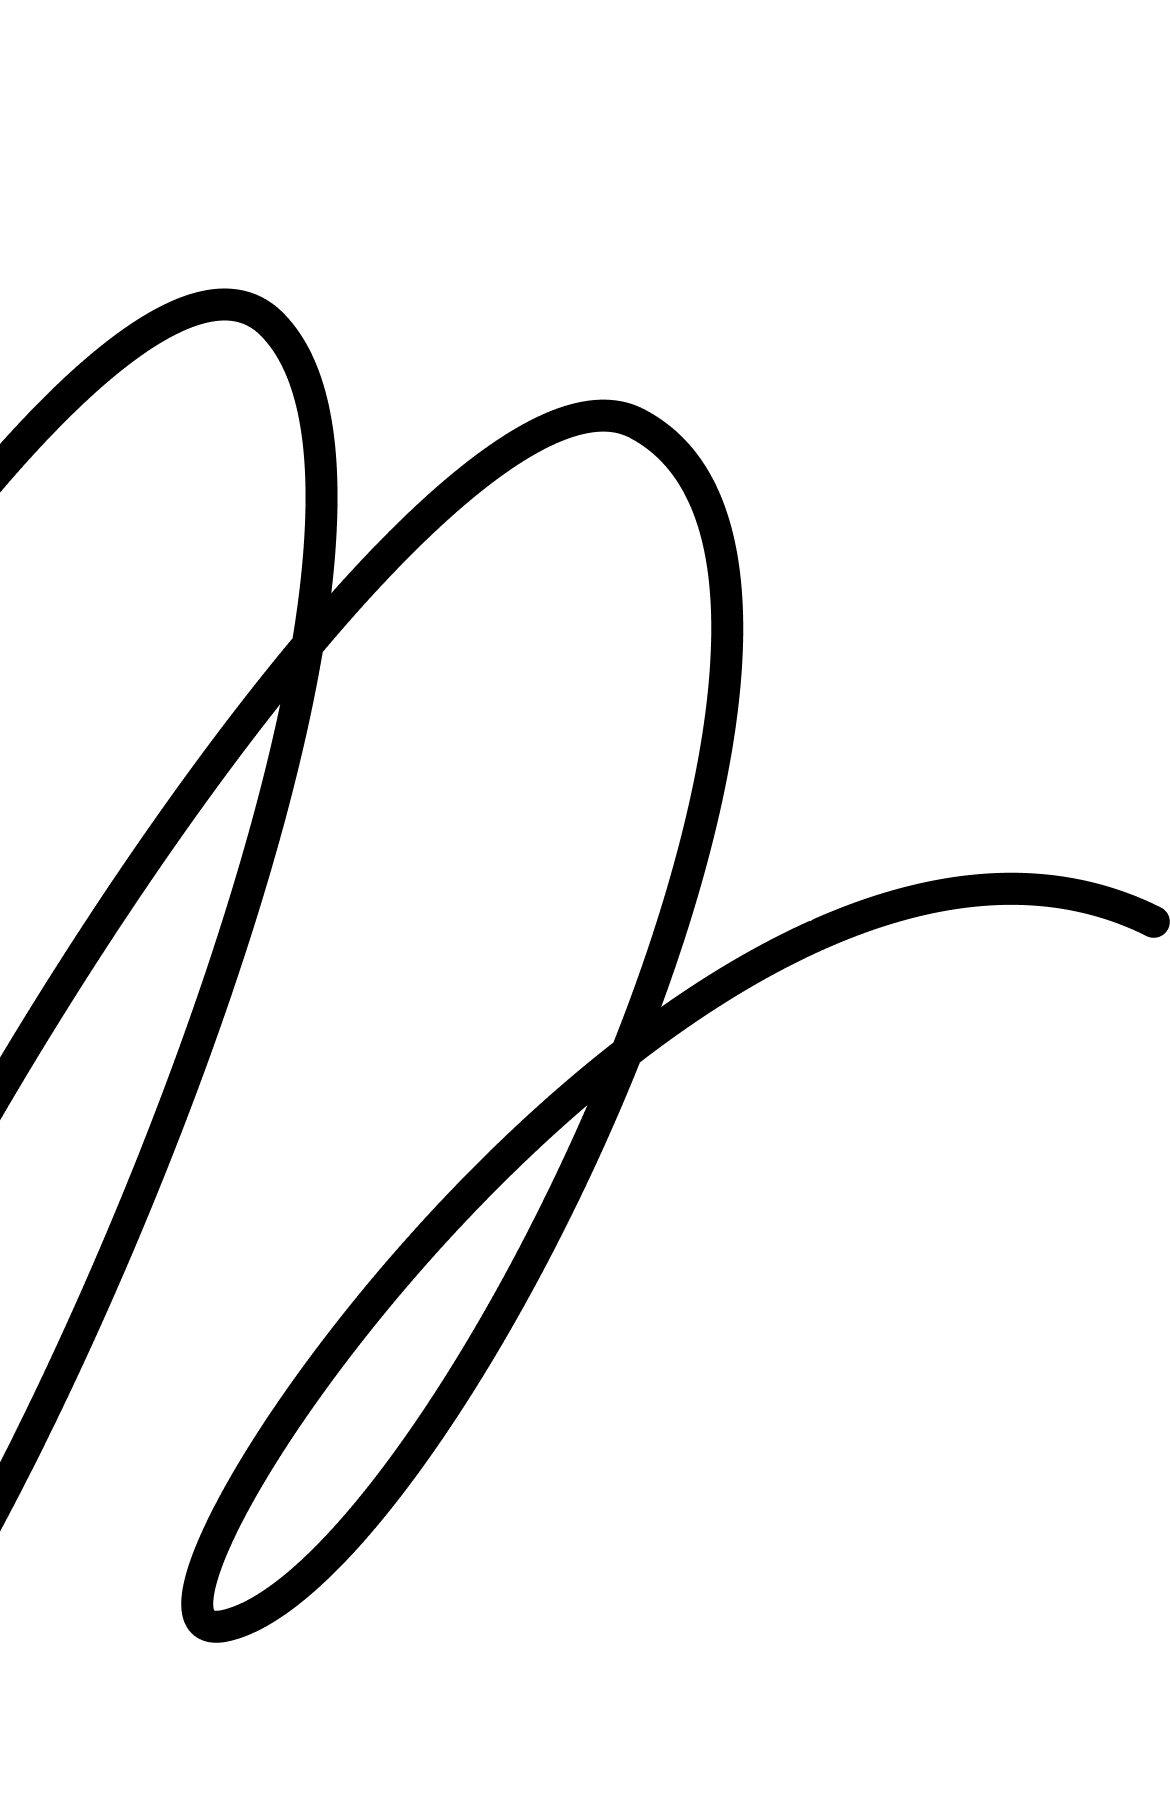
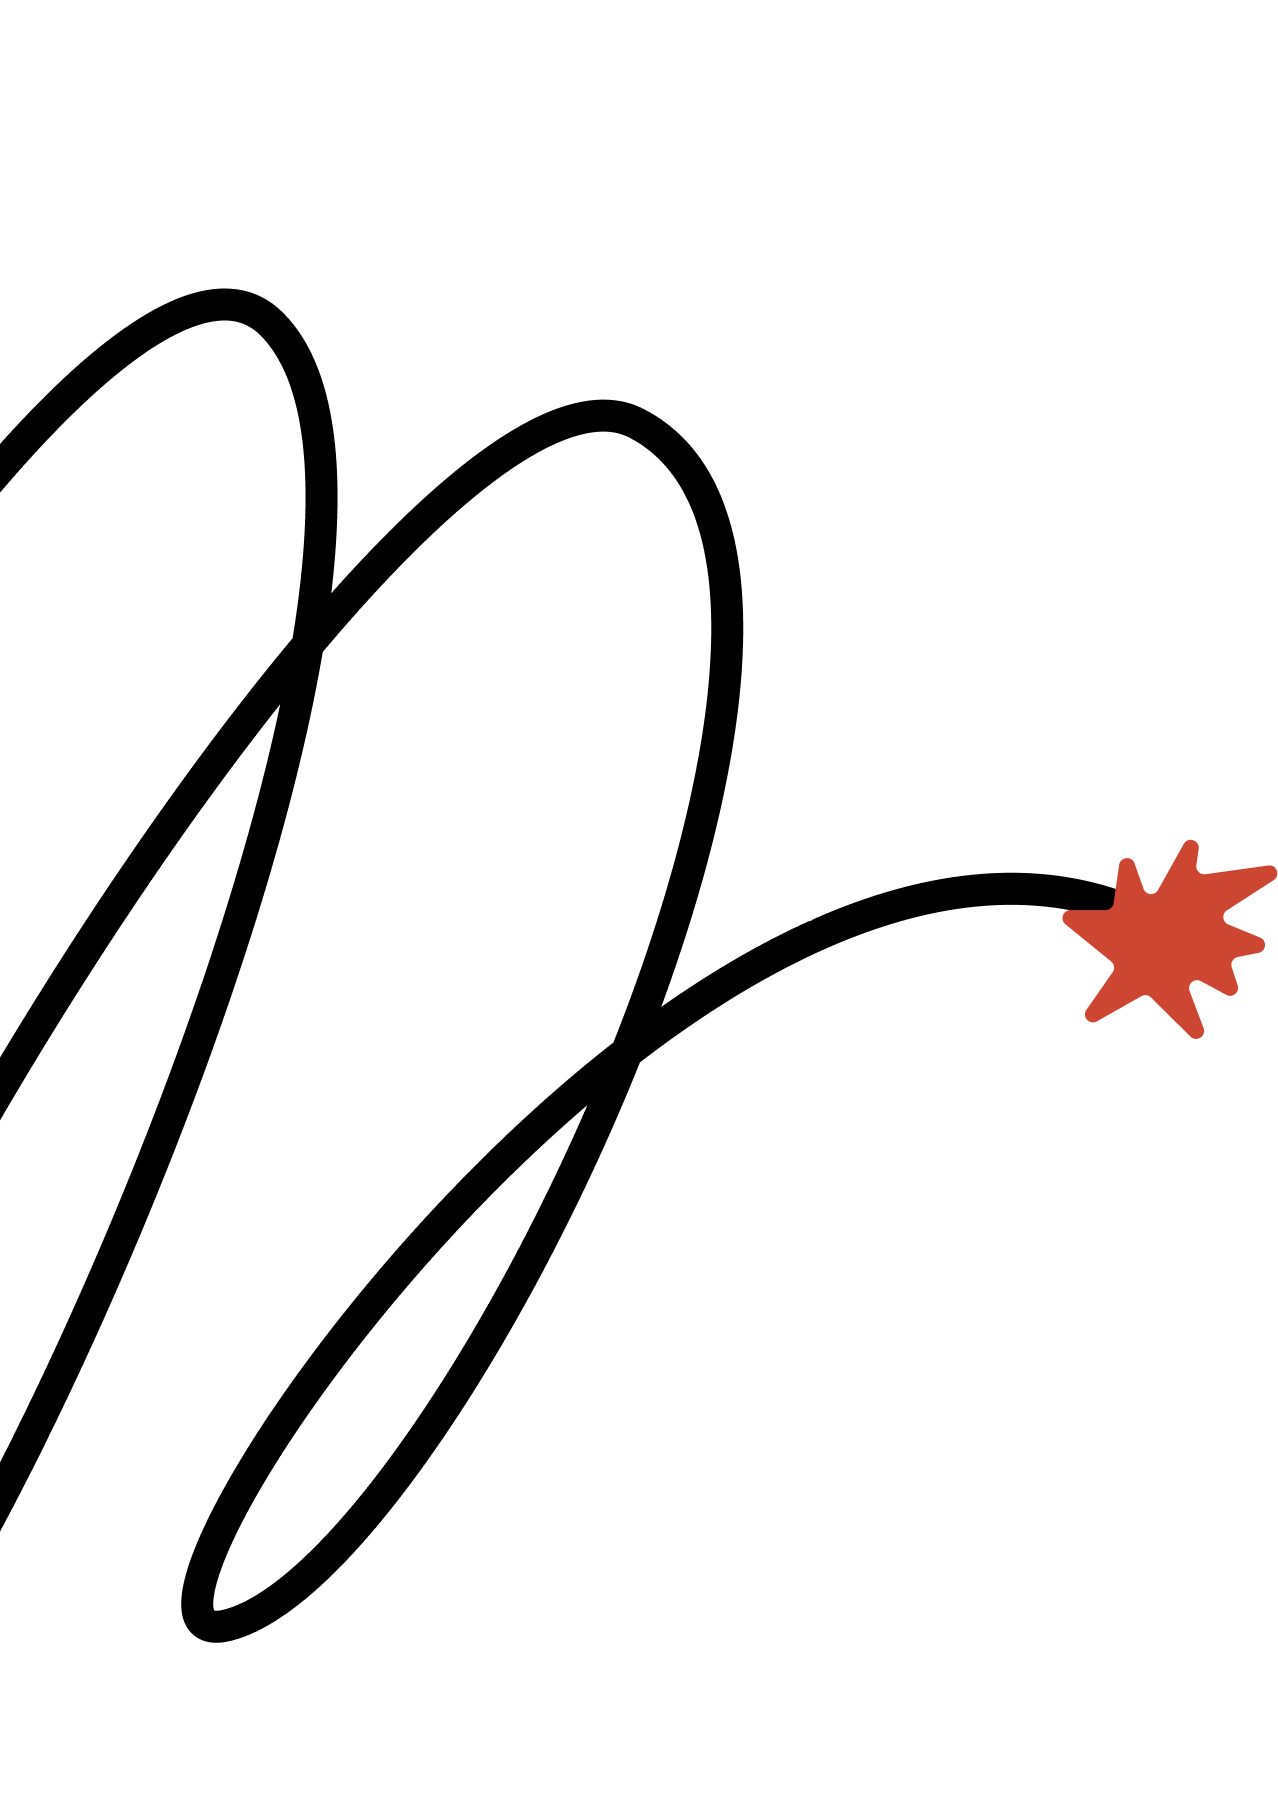
add: added few section of landing page

Changed region(s): [[0.0308, 0.155, 0.8, 0.9302], [0.8308, 0.4651, 1.0, 0.5891], [0.0308, 0.2171, 0.0615, 0.2481]]

diff --git a/src/pages/index.tsx b/src/pages/index.tsx
@@ -1,14 +1,22 @@
 import * as React from "react";
 import type { GetServerSideProps, NextPage } from "next";
-import Container from "@mui/material/Container";
-import Typography from "@mui/material/Typography";
-import Box from "@mui/material/Box";
+import { Box, Container, Grid, Paper, Typography } from "@mui/material";
+import { Swiper, SwiperSlide } from "swiper/react";
+import { FreeMode, Autoplay } from "swiper";
 import Image from "next/image";
 import Vector010 from "@images/Vectors/Vector010.png";
 import Vector011 from "@images/Vectors/Vector011.png";
-import Vector012 from "@images/Vectors/Vector012.png";
+import Scribble from "@images/Vectors/Scribble.png";
+import GooglePodcast from "@images/BrandIcons/GooglePodcast.png";
+import Spotify from "@images/BrandIcons/Spotify.png";
+import Youtube from "@images/BrandIcons/Youtube.png";
+import Illustration001 from "@images/Illustration/Illustration001.png";
+import Illustration002 from "@images/Illustration/Illustration002.png";
 import ShadowButton from "@components/Custom/ShadowButton";
-import { Grid } from "@mui/material";
+import { SiGooglepodcasts, SiSpotify, SiYoutube } from "react-icons/si";
+import ComposedLink from "@components/Custom/ComposedLink";
+import "swiper/css/free-mode";
+import "swiper/css";
 
 export const getServerSideProps: GetServerSideProps = async (context) => {
   return {
@@ -17,6 +25,15 @@ export const getServerSideProps: GetServerSideProps = async (context) => {
 };
 
 const Home: NextPage = () => {
+  const podcast = {
+    title: "Technology",
+    imageURL:
+      "https://i.ibb.co/TgHFqFs/microphone-for-audio-record-or-podcast-concept-single-microphone-on-dark-shadow-background-with-copy.jpg",
+    googlePodcastURL: "nothing",
+    youtubeURL: "nothing",
+    spotifyURL: "nothing",
+  };
+
   return (
     <Container
       maxWidth={false}
@@ -35,7 +52,6 @@ const Home: NextPage = () => {
       >
         <Grid item xs={3} sx={{ display: "flex", alignItems: "center" }}>
           <Image width="300px" height="400px" src={Vector010} alt="Image-alt" />
-          <Image width="50px" height="50px" src={Vector011} alt="Image-alt" />
         </Grid>
         <Grid item xs={6} sx={{ textAlign: "center" }}>
           <Typography
@@ -72,12 +88,227 @@ const Home: NextPage = () => {
               layout="fixed"
               width="150px"
               height="215px"
-              src={Vector012}
+              src={Vector011}
               alt="Image-alt"
             />
           </Box>
         </Grid>
       </Grid>
+      <Box
+        component="section"
+        sx={{
+          bgcolor: "champagne.main",
+          py: "80px",
+          "& .swiper-wrapper": {
+            transitionTimingFunction: "linear !important",
+          },
+        }}
+      >
+        <Swiper
+          slidesPerView={4}
+          spaceBetween={150}
+          loop={true}
+          freeMode={true}
+          modules={[FreeMode, Autoplay]}
+          autoplay={{
+            delay: 0,
+            disableOnInteraction: false,
+          }}
+          speed={5000}
+        >
+          {new Array(10).fill(podcast)?.map((podcast: any, index: number) => {
+            return (
+              <SwiperSlide key={index + 400}>
+                <Paper
+                  sx={{
+                    height: "340px",
+                    width: "340px",
+                    backgroundImage: `url(${podcast.imageURL})`,
+                    backgroundRepeat: "no-repeat",
+                    backgroundSize: "cover",
+                    display: "flex",
+                    flexDirection: "column",
+                    justifyContent: "space-between",
+                  }}
+                >
+                  <Box
+                    sx={{
+                      display: "flex",
+                      justifyContent: "end",
+                      gap: "10px",
+                      padding: "20px",
+                    }}
+                  >
+                    <ComposedLink to={podcast.googlePodcastURL}>
+                      <SiGooglepodcasts
+                        style={{ fontSize: "24px", color: "#fff" }}
+                      />
+                    </ComposedLink>
+                    <ComposedLink to={podcast.spotifyURL}>
+                      <SiSpotify style={{ fontSize: "24px", color: "#fff" }} />
+                    </ComposedLink>
+                    <ComposedLink to={podcast.youtubeURL}>
+                      <SiYoutube style={{ fontSize: "24px", color: "#fff" }} />
+                    </ComposedLink>
+                  </Box>
+                  <Typography
+                    sx={{
+                      fontSize: "36px",
+                      fontWeight: "bold",
+                      color: "primary.main",
+                      padding: "20px",
+                    }}
+                  >
+                    {podcast.title}
+                  </Typography>
+                </Paper>
+              </SwiperSlide>
+            );
+          })}
+        </Swiper>
+        <Box
+          sx={{
+            mx: "140px",
+            my: "100px",
+            borderTop: "1px solid black",
+            borderBottom: "1px solid black",
+            height: "120px",
+          }}
+        >
+          <Grid container sx={{ height: 1 }}>
+            <Grid item xs={3} sx={{ display: "flex", alignItems: "center" }}>
+              <Typography
+                sx={{
+                  fontSize: "22.6px",
+                  fontWeight: "bold",
+                }}
+              >
+                Supported by:
+              </Typography>
+            </Grid>
+            <Grid
+              item
+              xs={3}
+              sx={{
+                display: "flex",
+                justifyContent: "center",
+                alignItems: "center",
+              }}
+            >
+              <Image
+                height="35px"
+                width="130px"
+                src={Spotify}
+                alt="podcastLogo"
+              />
+            </Grid>
+            <Grid
+              item
+              xs={3}
+              sx={{
+                display: "flex",
+                justifyContent: "center",
+                alignItems: "center",
+              }}
+            >
+              <Image
+                height="35px"
+                width="200px"
+                src={GooglePodcast}
+                alt="podcastLogo"
+              />
+            </Grid>
+            <Grid
+              item
+              xs={3}
+              sx={{
+                display: "flex",
+                justifyContent: "center",
+                alignItems: "center",
+              }}
+            >
+              <Image
+                height="30px"
+                width="125px"
+                src={Youtube}
+                alt="podcastLogo"
+              />
+            </Grid>
+          </Grid>
+        </Box>
+      </Box>
+      <Box
+        component="section"
+        sx={{
+          position: "absolute",
+          mt: "-78px",
+          left: "45%",
+          right: 0,
+        }}
+      >
+        <Image height="150px" width="150px" src={Scribble} alt="bn" />
+      </Box>
+      <Box
+        component="section"
+        sx={{
+          py: "80px",
+        }}
+      >
+        <Typography
+          sx={{
+            fontSize: "60px",
+            fontWeight: "bold",
+            textAlign: "center",
+            my: "60px",
+          }}
+        >
+          Talk. Listen. Get inspired <br /> by every minute of it.
+        </Typography>
+        <Grid container>
+          <Grid item xs={6} sx={{ padding: 12 }}>
+            <Box
+              sx={{
+                display: "flex",
+                justifyContent: "center",
+                alignItems: "center",
+              }}
+            >
+              <Image height={275} width={275} src={Illustration001} alt="asv" />
+            </Box>
+            <Typography
+              sx={{
+                fontSize: "16px",
+                fontWeight: "medium",
+                mt: "40px",
+              }}
+            >
+              Lorem ipsum dolor sit amet, consectetur adipiscing elit. Curabitur
+              ac ultrices odio.
+            </Typography>
+          </Grid>
+          <Grid item xs={6} sx={{ padding: 12 }}>
+            <Box
+              sx={{
+                display: "flex",
+                justifyContent: "center",
+                alignItems: "center",
+              }}
+            >
+              <Image height={275} width={275} src={Illustration002} alt="asv" />
+            </Box>
+            <Typography
+              sx={{
+                fontSize: "16px",
+                fontWeight: "medium",
+                mt: "40px",
+              }}
+            >
+              Lorem ipsum dolor sit amet, consectetur adipiscing elit. Curabitur
+              ac ultrices odio.
+            </Typography>
+          </Grid>
+        </Grid>
+      </Box>
     </Container>
   );
 };
